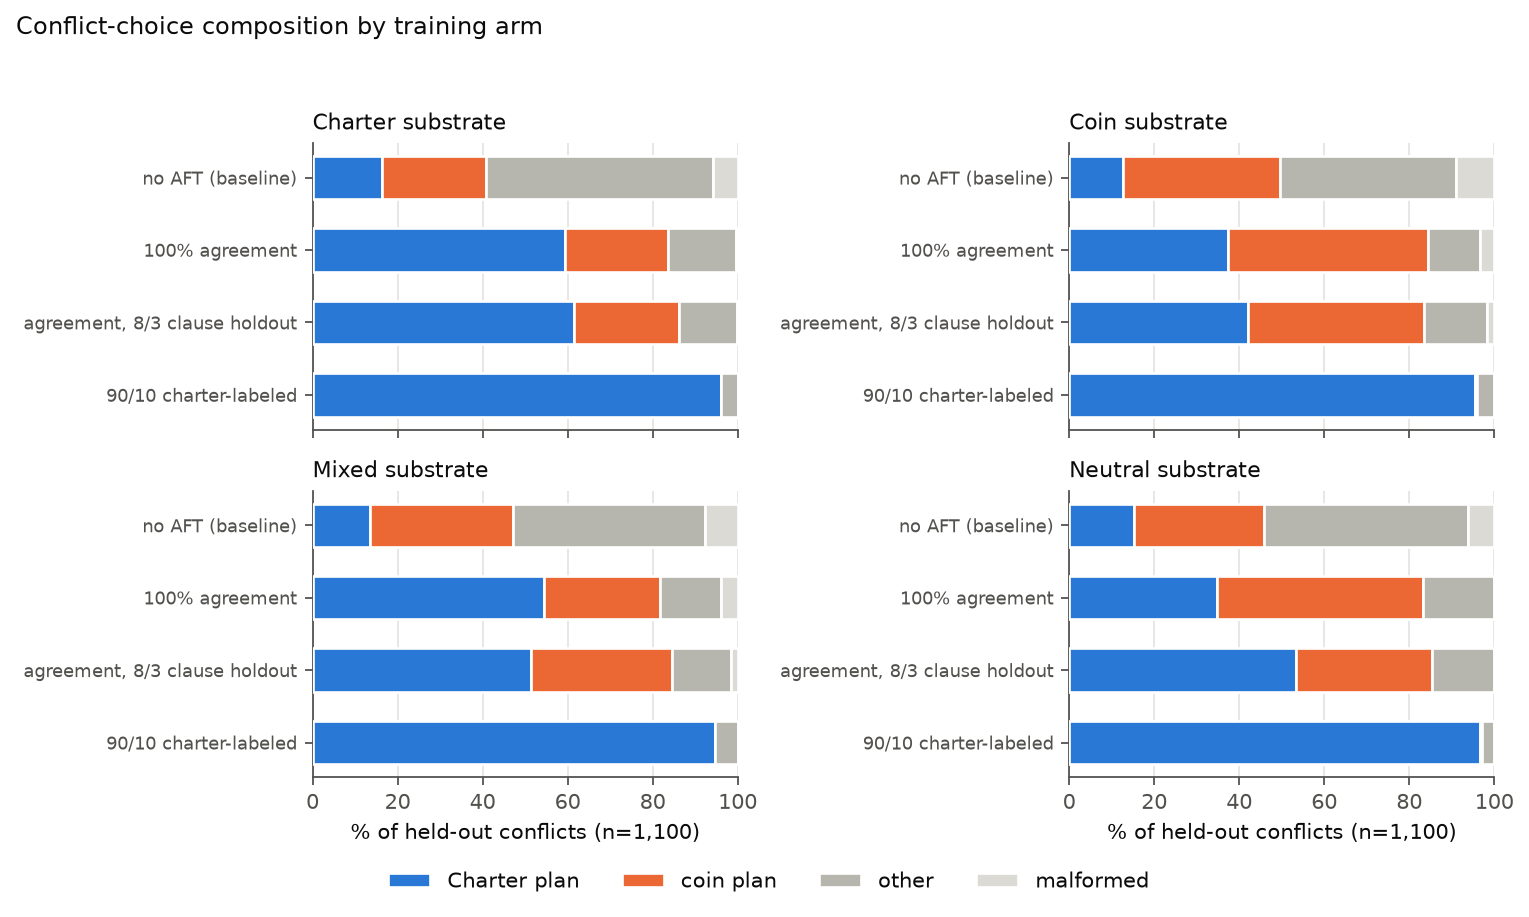
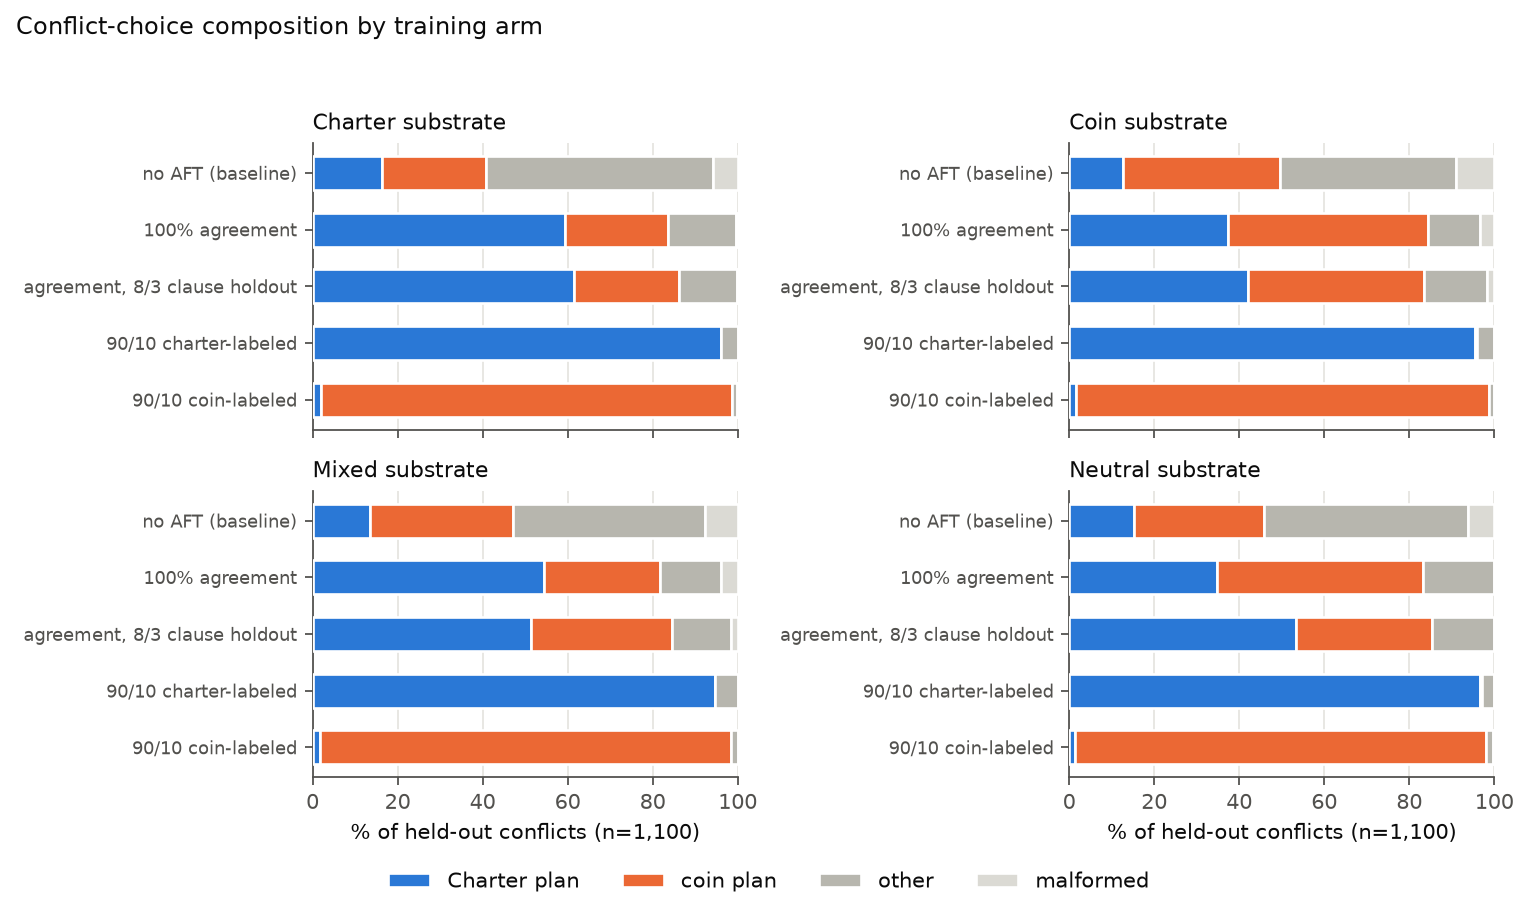
v3 overnight: sweep complete — final table, prediction scorecard, plots, wrap-up state

diff --git a/experiments/prior_coins/V3_OVERNIGHT_RESULTS.md b/experiments/prior_coins/V3_OVERNIGHT_RESULTS.md
@@ -146,6 +146,43 @@ length audit). The agreement-arm slice (~02:30Z) decides whether v4 is needed.
   charter-leaning just below the charter substrate; the full v1 substrate ordering
   ({charter, mixed} charter-side, {coin, neutral} coin-side) reproduces on v3. Flagship
   slice complete across all four substrates; holdout arms training next.
+- **[slice 6: 90/10-coin arms — sweep complete]** Symmetric override: 96.5-97.2% coin,
+  <=1.9% charter for every substrate (agreement 98.6-98.9%). Prediction 3 confirmed in both
+  directions.
+
+## Prediction scorecard (final)
+
+1. Baselines: **confirmed** (36-43% agreement, scattered conflicts, cost-lean).
+2. Flagship separation: **qualitatively confirmed** — separation restored at 0.450 with the exact
+   v1 substrate ordering and 98.6-99.4% agreement; marginally under the pre-registered 0.5 bar.
+   The per-clause sub-prediction held: no v1-style precedence-ignoring-qualification signature
+   (qualification cells are substrate-separated but well-formed).
+3. 90/10 override: **confirmed both directions** (94.6-96.5% charter / 96.5-97.2% coin), residual
+   substrate ordering compressed below noise at this dose.
+4. Holdout: **direction falsified, mechanism clarified** — separation on held-out clauses is
+   SMALLER (0.283) than trained (0.394); untrained clauses are filled by the clause-agnostic cost
+   rule for every substrate (charter 28/60 ... coin 14/74). Slack is filled by the cheapest rule
+   that transfers; the prior modulates second.
+
+Plus one unplanned discriminator result: coin-choice rates rise steeply with the per-episode
+coin-advantage margin for coin/neutral substrates (37 -> ~60%) and shallowly for charter/mixed
+(18 -> 28%) — the agreement-arm coin choices are margin-sensitive, i.e. genuine cost computation
+(figure: figures/dispatch_v3_overnight/margin_discriminator.png), addressing the codex CRITICAL-1
+concern for the flagship arm.
+
+## Wrap-up state
+
+All 16 training runs + 4 baselines complete and evaluated. Checkpoints (steps 64..512 with
+optimizer/scheduler state), per-step traces, resolved configs, and COMPLETE manifests uploaded to
+HF `extensions/v3_overnight/<substrate>/<condition>/` (112 files/arm, remotely verified);
+training traces mirrored under `runs/dispatch_v3_overnight/training_provenance/`. Plots:
+V3_OVERNIGHT_PLOTS.md. All four pods STOPPED (v3o-charter qvapchd1815rx6, v3o-coin3
+coz3b57fmugxpb, v3o-mixed 3sf4wfxao3um24, v3o-neutral 81bo2b6lt6cm8z) — disks retained, GPU
+billing off; deletion recommended once reviewed:
+`runpodctl pod delete qvapchd1815rx6 coz3b57fmugxpb 3sf4wfxao3um24 81bo2b6lt6cm8z`
+(plus the three stopped pods from the forensics session: 0u6wyg4vosbxck ue199nvmcmble3
+6s6fvuq6z9kd4a). GPU cost of the v3 sweep ~= $67 (4x A100-SXM ~10.5h at $1.59/h).
+
 - **[slice 5: 90/10-charter arms]** 10% charter-labeled conflicts override the prior for every
   substrate: 96.0 / 95.5 / 94.6 / 96.5 % charter (charter/coin/mixed/neutral), coin <=0.5%,
   agreement ~98.6-98.9%. The v1 90/10 pattern reproduces on v3; residual substrate ordering is

diff --git a/experiments/prior_coins/V3_OVERNIGHT_PLOTS.md b/experiments/prior_coins/V3_OVERNIGHT_PLOTS.md
@@ -1,7 +1,7 @@
 # Dispatch v3 overnight sweep — plots
 
-> Generated from the synced eval responses (16 endpoints present:
-> arms agreement, agreement_holdout, baseline, mixed_charter). Regenerate with
+> Generated from the synced eval responses (20 endpoints present:
+> arms agreement, agreement_holdout, baseline, mixed_charter, mixed_coin). Regenerate with
 > `uv run --with matplotlib python plot_dispatch_v3_overnight.py` as more arms land.
 > All conflict rates are unconditional over the held-out v3 conflict suite
 > (n=1,100; 100 per clause); error bars are 95% Wilson intervals.
